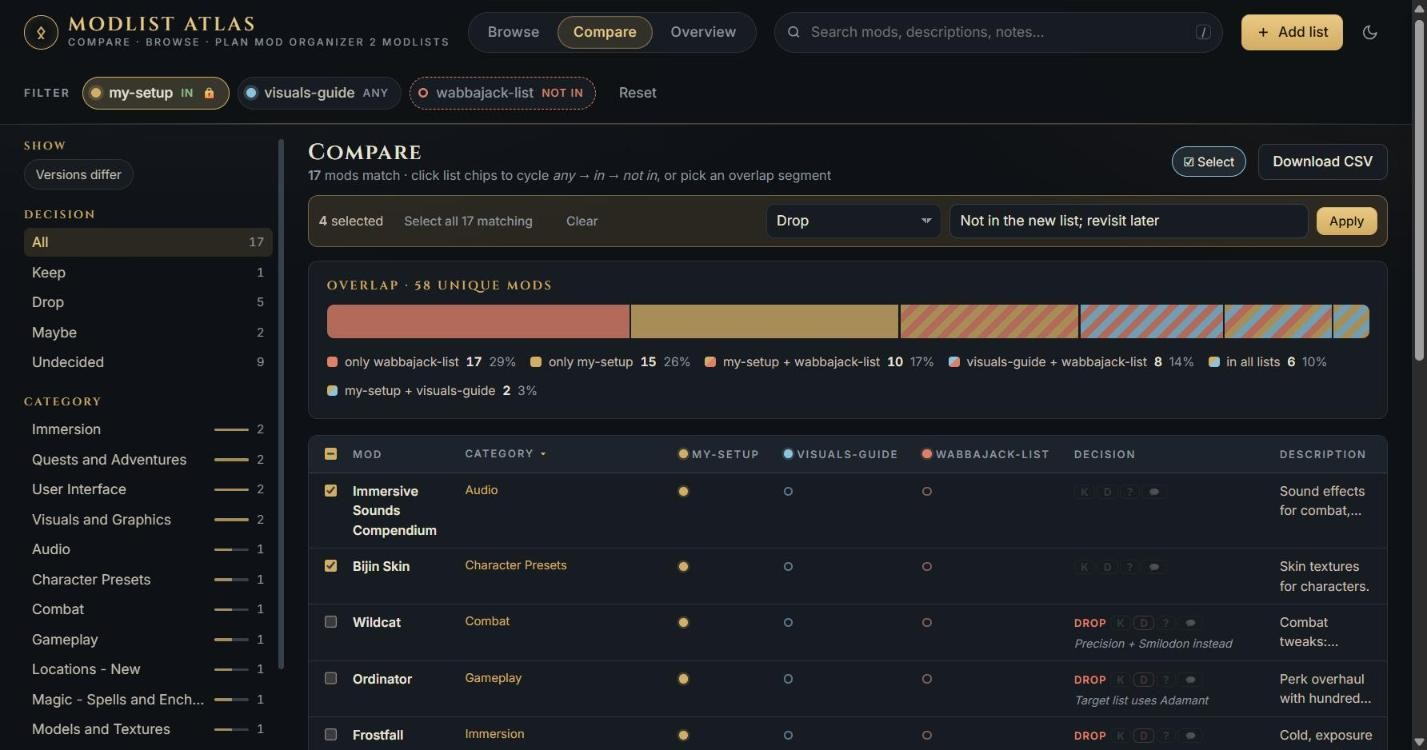
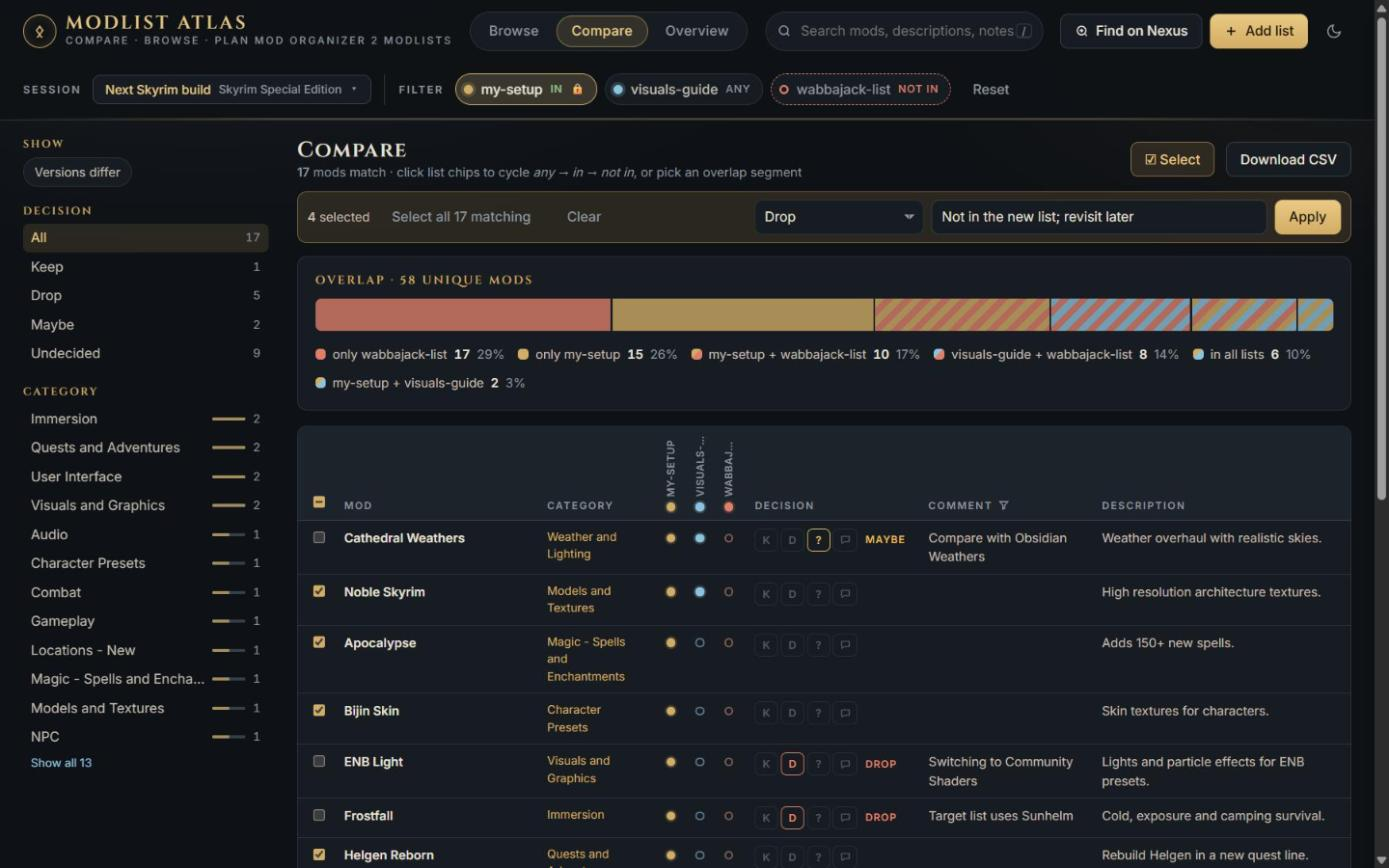
docs: README for mod users, advanced page and new screenshots
Add contents, updating, SmartScreen and macOS/Linux notes, a Feedback
section and a Compare GIF; move rebuilding and command line to
docs/ADVANCED.md; re-capture all screenshots from the demo data.

diff --git a/README.md b/README.md
@@ -14,6 +14,13 @@ when you ask it to: with a Nexus API key, or when you click **Find on Nexus**.
 
 <sub>Screenshots show a small demo with three sample lists.</sub>
 
+**Contents:** [What it helps you answer](#what-it-helps-you-answer) ·
+[Quick start](#quick-start) · [A tour](#a-tour) · [Keyboard shortcuts](#keyboard-shortcuts) ·
+[Optional settings](#optional-settings) · [Privacy and safety](#privacy-and-safety) ·
+[Where your data lives](#where-your-data-lives) · [Good to know](#good-to-know) ·
+[Development](#development) · [Feedback](#feedback) · [Credits and notes](#credits-and-notes) ·
+[License](#license)
+
 ## What it helps you answer
 
 - *Which of my mods does the new list already include, and which would I lose?*
@@ -33,6 +40,10 @@ others. Vortex lists aren't supported.
    git clone https://github.com/vivekmtk/modlist-atlas.git
    ```
 3. Double-click **`Modlist Atlas.bat`**. Your browser opens `http://localhost:8000`.
+   Windows SmartScreen may warn you the first time, because the file isn't signed. That's
+   expected: click **More info → Run anyway**. The file only starts Modlist Atlas on your PC.
+   On macOS or Linux, run `python3 tools/serve.py` instead. Uploaded lists work there, but the
+   *MO2 profile* option needs a Windows MO2 install.
 4. Name your first **session** and pick its game (see [Sessions](#keep-separate-plans-in-sessions)).
 5. Click **+ Add list** and pick one:
    - **MO2 profile**: point it at your Mod Organizer 2 folder and choose a profile.
@@ -43,9 +54,16 @@ others. Vortex lists aren't supported.
 Add at least two lists to compare them. To refresh a list after changing it in MO2, use
 **Re-snapshot** on the Overview page.
 
+**Updating:** download the new ZIP and unzip it over your existing Modlist Atlas folder, replacing
+files when asked. Your lists, decisions and settings are kept. Don't unzip it to a new folder: the
+app would look empty there, because your data stays in the old folder (see
+[Where your data lives](#where-your-data-lives)). If you used git, run `git pull` instead.
+
 ## A tour
 
 ### Compare lists side by side
+
+![Clicking list chips to show mods in my-setup but not in wabbajack-list, then marking one Keep and one Drop](docs/screenshots/compare.gif)
 
 Every mod gets one row, and every list gets a column. Click the list chips at the top to cycle each
 one through *any → in → not in*. For example, *in my-setup, not in wabbajack-list* shows exactly
@@ -53,10 +71,8 @@ what you'd lose by switching. Or click a segment of the overlap bar. **Versions 
 that both lists have in different versions (only lists snapshotted from MO2 have versions).
 **Download CSV** exports the current view, with your decisions, for a spreadsheet.
 
-In tables the column headings stay in view as you scroll. If a table is too wide for the window,
-it scrolls sideways in its own frame, with the mod names kept on the left. Your comments have their own column. Click **Comment** in the
-header to filter it like in Excel: tick the comments to show (or *(Blanks)* for mods without
-one), or search the list and press **OK**.
+Your comments have their own column, and you can filter it like in Excel: click **Comment** in
+the header.
 
 ### Browse a list
 
@@ -72,7 +88,8 @@ which of your lists contain that mod.
 
 Click a mod for its details: its description, a Nexus link, and which lists contain it. Mark it
 **Keep**, **Drop** or **Maybe** and add a comment, such as *replaced by Lux* or *needs a patch*.
-In tables, the small **K / D / ?** buttons on each row do the same without opening the mod.
+In tables, the small **K / D / ?** buttons on each row (**?** is Maybe; hover a button to see its
+name) do the same without opening the mod.
 
 Decisions follow the mod, not the list. A mod you marked *keep* shows as *keep* in every list that
 has it, and decisions survive re-snapshots and deleting lists. Each session has its own decisions.
@@ -180,15 +197,7 @@ Everything stays in the project folder, unless you set `ATLAS_HOME` to use anoth
 Back these up to keep a history. None of them are part of the repository, so updating the tool
 never touches them.
 
-## Rebuilding a setup from a snapshot
-
-1. Install MO2 and the game, and create a profile.
-2. Copy `lists/<name>/profile/*` into `Mod Organizer 2/profiles/<profile>/` and re-set any blanked
-   INI values (such as the screenshot folder).
-3. Install each mod from the links in `MODLIST.md`, keeping the **same mod names** (MO2 matches
-   `modlist.txt` entries by folder name).
-4. Regenerate outputs that aren't on Nexus (for Skyrim: DynDOLOD, xLODGen, TexGen, Grass Cache,
-   PGPatcher and similar).
+To rebuild a setup from a snapshot, or to use the command line, see [Advanced use](docs/ADVANCED.md).
 
 ## Good to know
 
@@ -201,18 +210,6 @@ never touches them.
   other way, the app is a read-only viewer.
 - List colours repeat after 8 lists.
 
-## Command line
-
-The same snapshots and imports are available without the web app:
-
-```powershell
-python tools/export_modlist.py                                   # snapshot using .env
-python tools/export_modlist.py --mo2 "<MO2 folder>" --profile "<profile>" --name <list>
-python tools/export_modlist.py --name <list> --freeze            # ask before overwriting
-python tools/import_files.py "<profile folder | .zip | files>" --name <list> --game <nexus game, e.g. morrowind>
-python tools/serve.py --port 8123 --no-browser                   # another port, no browser
-```
-
 ## Development
 
 ```powershell
@@ -221,6 +218,10 @@ python -m unittest discover tests
 
 The tests use a temporary `ATLAS_HOME` and a fake MO2 install; they never touch your data or the
 network. See [DESIGN.md](DESIGN.md) for how the pieces fit together.
+
+## Feedback
+
+Found a bug or have an idea? Open an issue on [GitHub Issues](https://github.com/vivekmtk/modlist-atlas/issues).
 
 ## Credits and notes
 

diff --git a/docs/ADVANCED.md b/docs/ADVANCED.md
@@ -1,0 +1,25 @@
+# Modlist Atlas: advanced use
+
+Extra steps for when you need them. For everything else, see the [README](../README.md).
+
+## Rebuilding a setup from a snapshot
+
+1. Install MO2 and the game, and create a profile.
+2. Copy `lists/<name>/profile/*` into `Mod Organizer 2/profiles/<profile>/` and re-set any blanked
+   INI values (such as the screenshot folder).
+3. Install each mod from the links in `MODLIST.md`, keeping the **same mod names** (MO2 matches
+   `modlist.txt` entries by folder name).
+4. Regenerate outputs that aren't on Nexus (for Skyrim: DynDOLOD, xLODGen, TexGen, Grass Cache,
+   PGPatcher and similar).
+
+## Command line
+
+The same snapshots and imports are available without the web app:
+
+```powershell
+python tools/export_modlist.py                                   # snapshot using .env
+python tools/export_modlist.py --mo2 "<MO2 folder>" --profile "<profile>" --name <list>
+python tools/export_modlist.py --name <list> --freeze            # ask before overwriting
+python tools/import_files.py "<profile folder | .zip | files>" --name <list> --game <nexus game, e.g. morrowind>
+python tools/serve.py --port 8123 --no-browser                   # another port, no browser
+```
